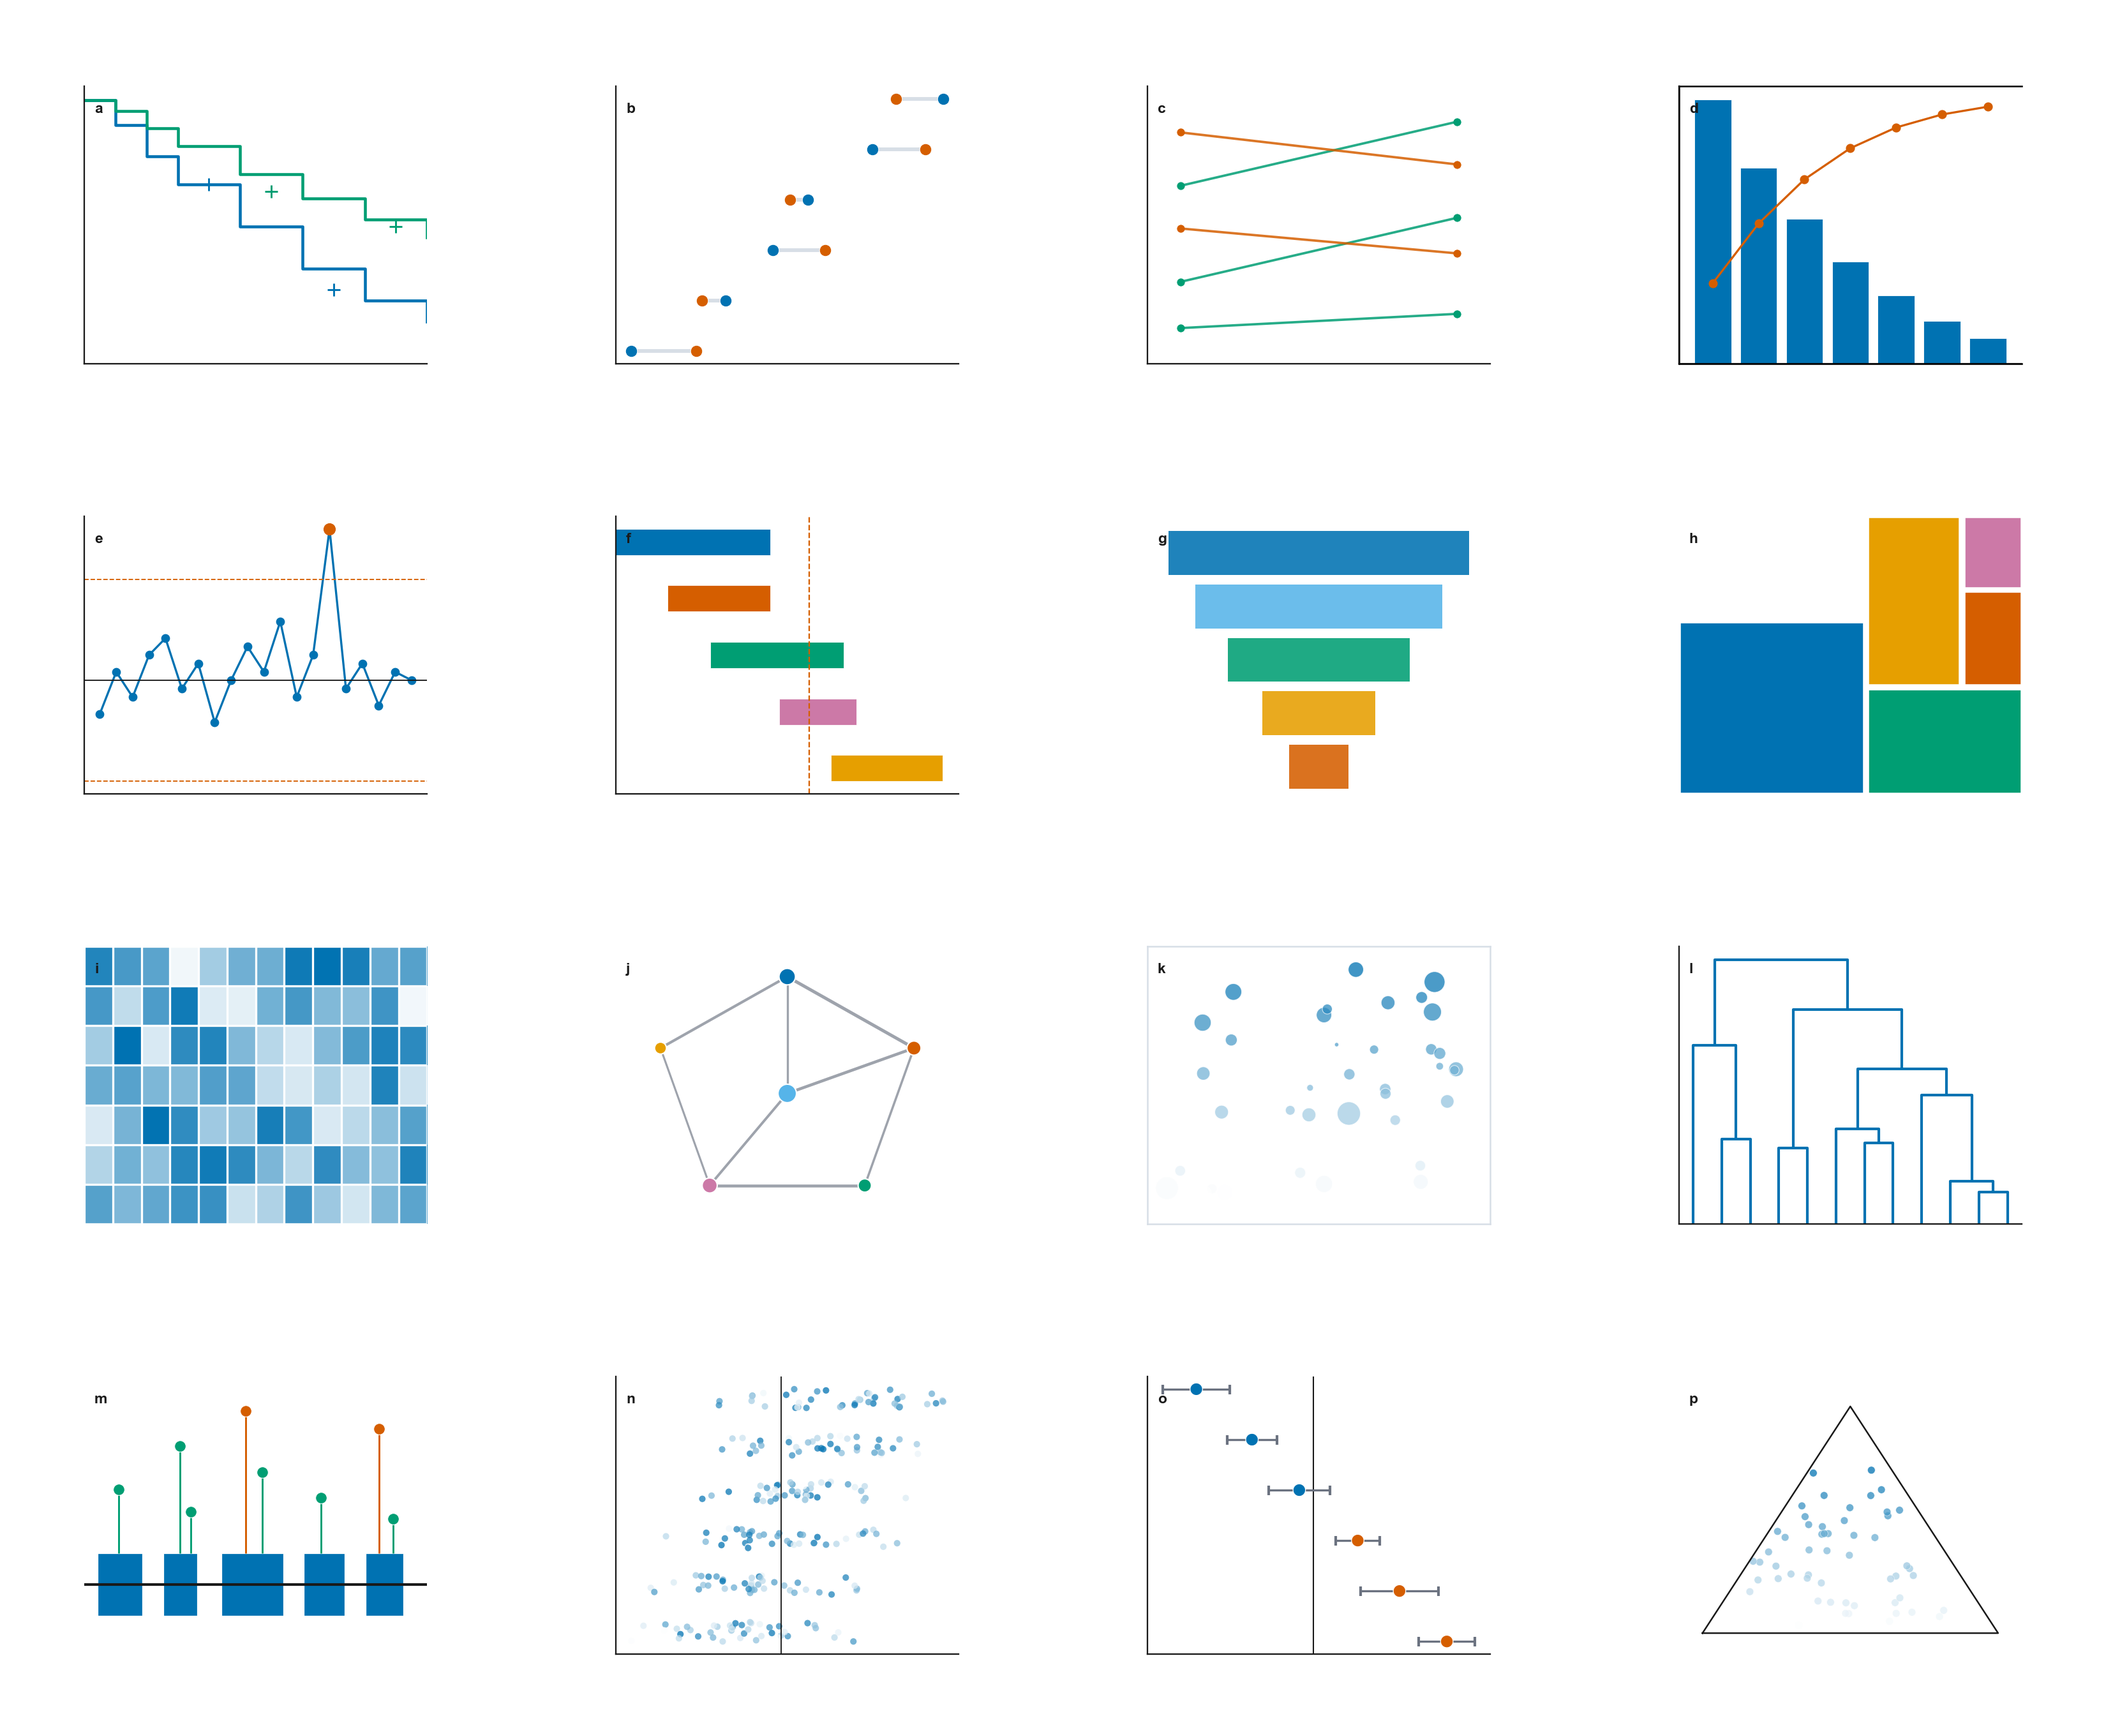
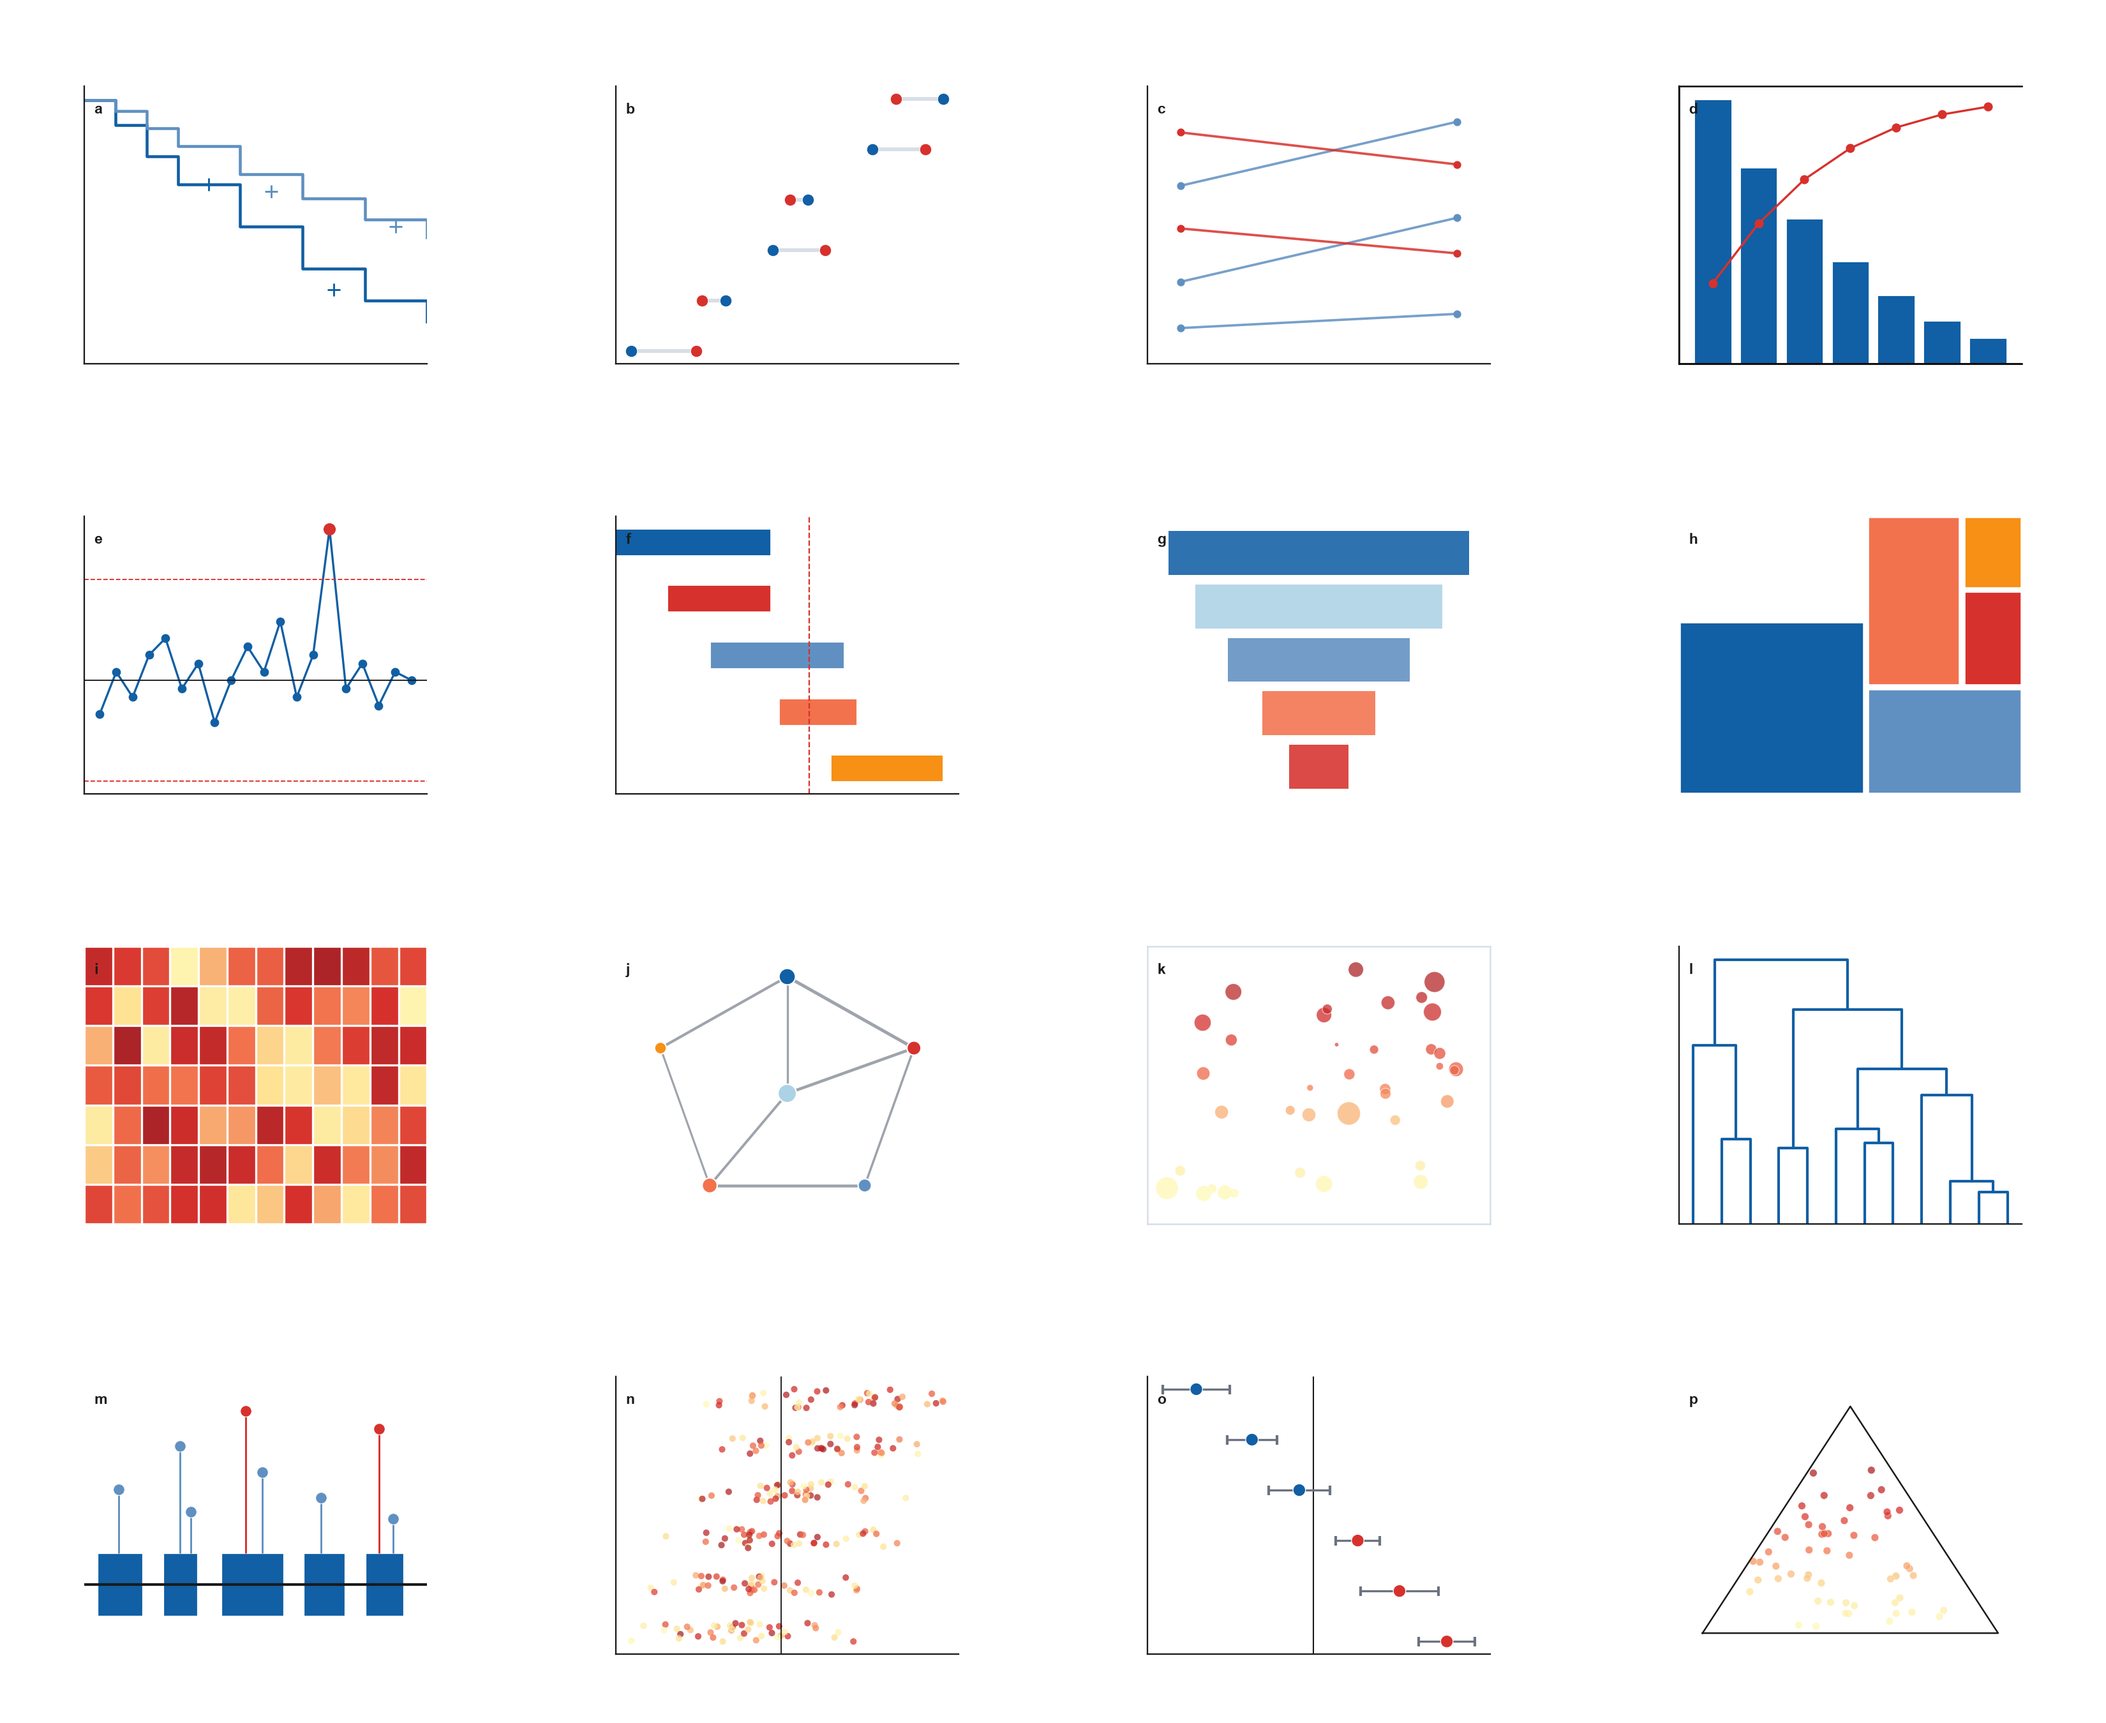
feat: theme domain work atlas with warm cool palette

diff --git a/scripts/generate_atlas.py b/scripts/generate_atlas.py
@@ -2,12 +2,13 @@
 """
 Academic Figure Skill Chart Atlas Generator.
 
-Generates 5 atlas grid images (4x4 subplots each) demonstrating Academic Figure Skill's
+Generates 6 atlas grid images (4x4 subplots each) demonstrating Academic Figure Skill's
 visual grammar range using pure matplotlib with CNS standard styling.
 
 Output: academic-data-visualization/assets/chart-atlas/atlas-*.png
 """
 
+import argparse
 import os
 import sys
 import warnings
@@ -62,6 +63,31 @@ CNS_SEQUENTIAL_CMAP = LinearSegmentedColormap.from_list(
     [CNS_COLORS["bg"], CNS_COLORS["blue"]],
     N=256,
 )
+
+
+def apply_warm_cool_kinetics_theme():
+    """将图鉴映射为 README 缩略图使用的暖冷动力学主题。"""
+    global CNS_PALETTE, CNS_DIVERGING_CMAP, CNS_SEQUENTIAL_CMAP
+
+    # 与 palette-library.json 的 warm-cool-kinetics 保持同一组色值；
+    # 这里按图表语义分配冷色主系列、暖色强调与浅冷色辅助系列。
+    CNS_COLORS.update({
+        "green": "#6090C1",
+        "purple": "#F79015",
+        "blue": "#115FA4",
+        "red": "#D7312D",
+        "orange": "#F2724D",
+        "teal": "#ACD2E5",
+    })
+    CNS_PALETTE = [
+        "#115FA4", "#D7312D", "#6090C1", "#F2724D", "#F79015", "#ACD2E5",
+    ]
+    CNS_DIVERGING_CMAP = LinearSegmentedColormap.from_list(
+        "warm_cool_kinetics_diverging", ["#115FA4", "#FEF9B7", "#D7312D"], N=256,
+    )
+    CNS_SEQUENTIAL_CMAP = LinearSegmentedColormap.from_list(
+        "warm_cool_kinetics_sequential", ["#FEF9B7", "#FEE395", "#F2724D", "#D7312D", "#AB2428"], N=256,
+    )
 
 # ---------------------------------------------------------------------------
 # Global matplotlib rcParams
@@ -1894,7 +1920,27 @@ def build_atlas(panel_funcs, title, output_path, figsize=(11, 9)):
 
 
 def main():
-    """Generate all 5 chart atlas images."""
+    """按指定主题生成全部或单张图表图鉴。"""
+    parser = argparse.ArgumentParser(description="生成 Academic Data Visualization 图表图鉴。")
+    parser.add_argument(
+        "--theme",
+        choices=("nature-default", "warm-cool-kinetics"),
+        default="nature-default",
+        help="图鉴配色主题；暖冷动力学与 README 图表索引保持一致。",
+    )
+    parser.add_argument(
+        "--only",
+        choices=(
+            "atlas-01-bar-charts.png", "atlas-02-line-scatter.png", "atlas-03-heatmaps.png",
+            "atlas-04-distributions.png", "atlas-05-volcano-special.png", "atlas-06-domain-work.png",
+        ),
+        help="仅生成指定图鉴，避免无关资产被覆盖。",
+    )
+    args = parser.parse_args()
+
+    if args.theme == "warm-cool-kinetics":
+        apply_warm_cool_kinetics_theme()
+
     os.makedirs(OUTPUT_DIR, exist_ok=True)
     print(f"\nAcademic Figure Skill Chart Atlas Generator")
     print(f"Output directory: {OUTPUT_DIR}\n")
@@ -1907,6 +1953,8 @@ def main():
         ("atlas-05-volcano-special.png", VOLCANO_PANELS),
         ("atlas-06-domain-work.png", DOMAIN_WORK_PANELS),
     ]
+    if args.only:
+        atlases = [atlas for atlas in atlases if atlas[0] == args.only]
 
     for filename, panels in atlases:
         output_path = os.path.join(OUTPUT_DIR, filename)

diff --git a/README.md b/README.md
@@ -129,7 +129,7 @@ git clone https://github.com/Starry-cz/academic-data-visualization.git
 除上表的生产图型外，Skill 新增了 16 种可复用的科研与日常工作图型视觉模式：Kaplan–Meier、生存 / 效应估计、哑铃图、坡度图、帕累托、控制图、甘特、阶段漏斗、树图、日历热图、网络、空间气泡、dendrogram、基因组 lollipop、SHAP beeswarm、三元图。实际选择与约束见 [`references/figure-type-catalog.md`](references/figure-type-catalog.md)。
 
 <p align="center">
-  <img src="assets/chart-atlas/atlas-06-domain-work.png" width="100%" alt="科研与工作扩展图型图鉴：Kaplan-Meier、甘特图、网络图、SHAP beeswarm 等">
+  <img src="assets/chart-atlas/atlas-06-domain-work.png?theme=warm-cool-kinetics-v1" width="100%" alt="科研与工作扩展图型图鉴：Kaplan-Meier、甘特图、网络图、SHAP beeswarm 等">
 </p>
 
 ## 工作流与视觉系统
